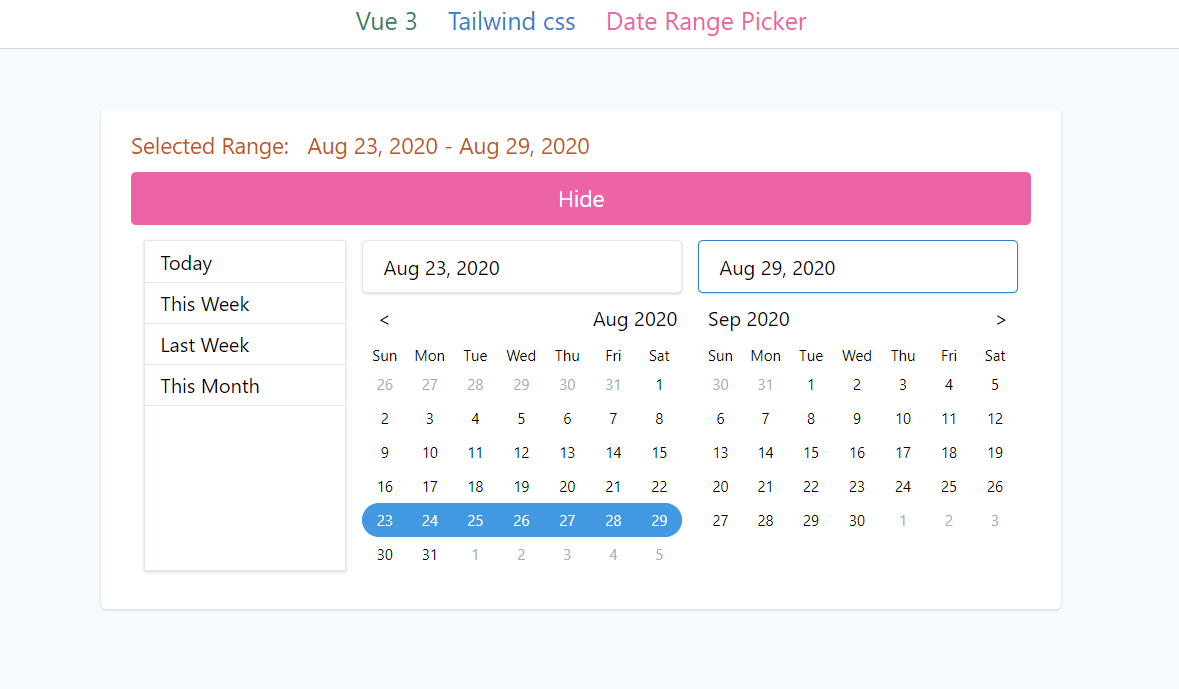
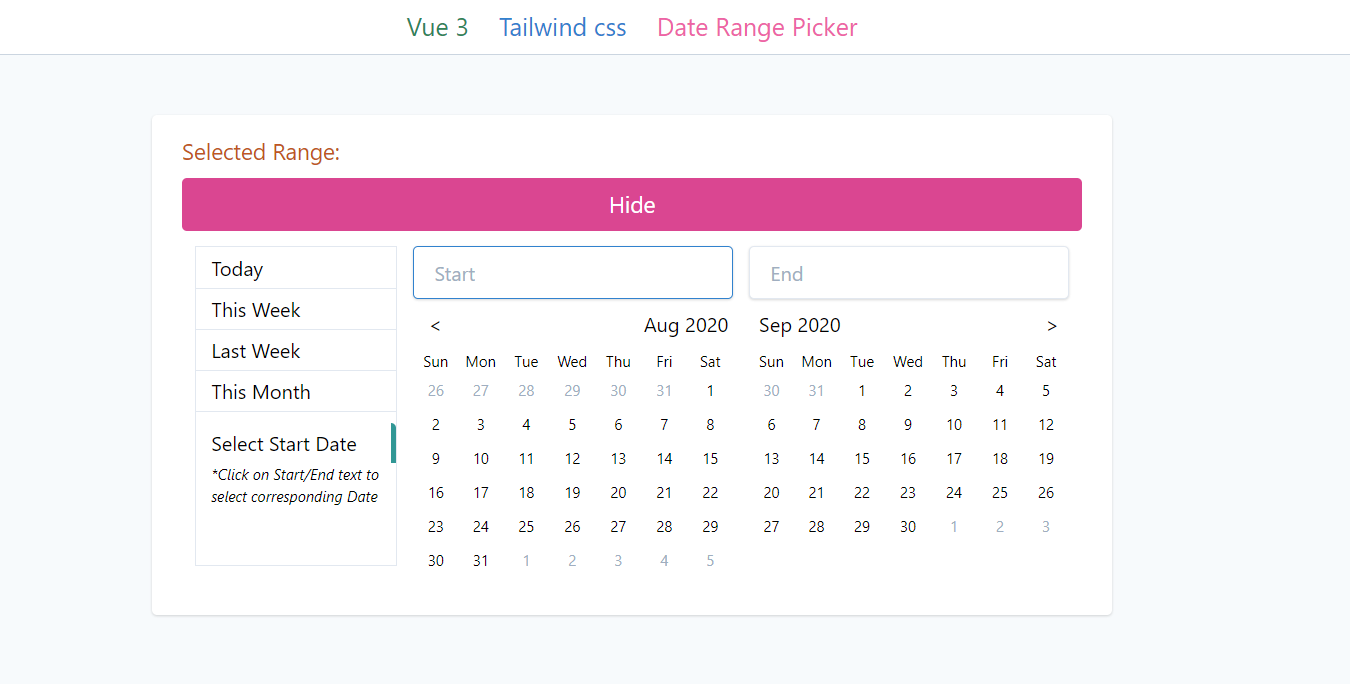
added helper texts and changed screenshots

diff --git a/tailwind-date-range/src/components/DateRange.vue b/tailwind-date-range/src/components/DateRange.vue
@@ -1,7 +1,7 @@
 <template>
     <div class="rounded p-1 date-range">
         <div class="input-field flex flex-col md:flex-row space-y-2 md:space-y-0 w-full justify-around">
-            <div class="flex flex-col border border-gray-300 shadow btn-group md:h-64">
+            <div class="flex flex-col border border-gray-300  btn-group md:h-64">
                 <a class="btn hover:bg-gray-200 py-1 px-3 cursor-pointer rounded w-40" @click="setToday">Today</a>
                 <hr/>
                 <a class="btn hover:bg-gray-200 py-1 px-3 cursor-pointer rounded w-40" @click="setThisWeek">This Week</a>
@@ -10,6 +10,16 @@
                 <hr/>
                 <a class="btn hover:bg-gray-200 py-1 px-3 cursor-pointer rounded w-40" @click="setThisMonth">This Month</a>
                 <hr/>
+                <div class="mt-2">
+                    <p class="border-r-4 rounded-t border-teal-600 py-1 px-3">
+                        Select
+                        <transition name="fade" mode="out-in">
+                           <span :key="1" v-if="selectedField=='start_date'">Start Date</span>
+                           <span :key="2" v-else>End Date</span>
+                        </transition>
+                    </p>
+                </div>
+                <p class="text-xs italic px-3">*Click on Start/End text to <br/> select corresponding Date</p>
             </div>
             <div class="flex flex-col">
                 <input :class="{'outline-none shadow appearance-none py-2 px-4 rounded cursor-pointer border':true,'border-blue-600':selectedField=='start_date'}"

diff --git a/tailwind-date-range/src/App.vue b/tailwind-date-range/src/App.vue
@@ -1,7 +1,7 @@
 <template>
   <div id="app" class="app bg-gray-100 h-screen flex flex-col items-center">
      <AppNav></AppNav>
-     <div :class="{'app__section py-4 px-6 bg-white w-full lg:w-1/2 rounded shadow mt-12 flex flex-col':true,
+     <div :class="{'app__section py-4 px-6 bg-white w-full xl:w-1/2 rounded shadow mt-12 flex flex-col':true,
           'app__section-initialHeight':!showPicker,'app__section-finalHeight':showPicker}">
           <span class="text-lg text-orange-700 mb-2">Selected Range:&nbsp;&nbsp;&nbsp;{{selectedRange}}</span>
           <a class="btn w-full bg-pink-500 hover:bg-pink-600 py-2 px-4 rounded text-lg text-white text-center cursor-pointer"
@@ -60,8 +60,7 @@ export default {
   opacity: 0;
 }
 .app__section{  
-  transition: all 0.3s;
-  overflow: hidden;
+  transition: all 0.3s;  
 }
 .app__section-initialHeight{
   height:8rem;
@@ -71,7 +70,7 @@ export default {
 }
 @media only screen and (max-width:767px) {
  .app__section-finalHeight{
-    height: 45rem;  
+    height: 50rem;  
   }
 }
 </style>
